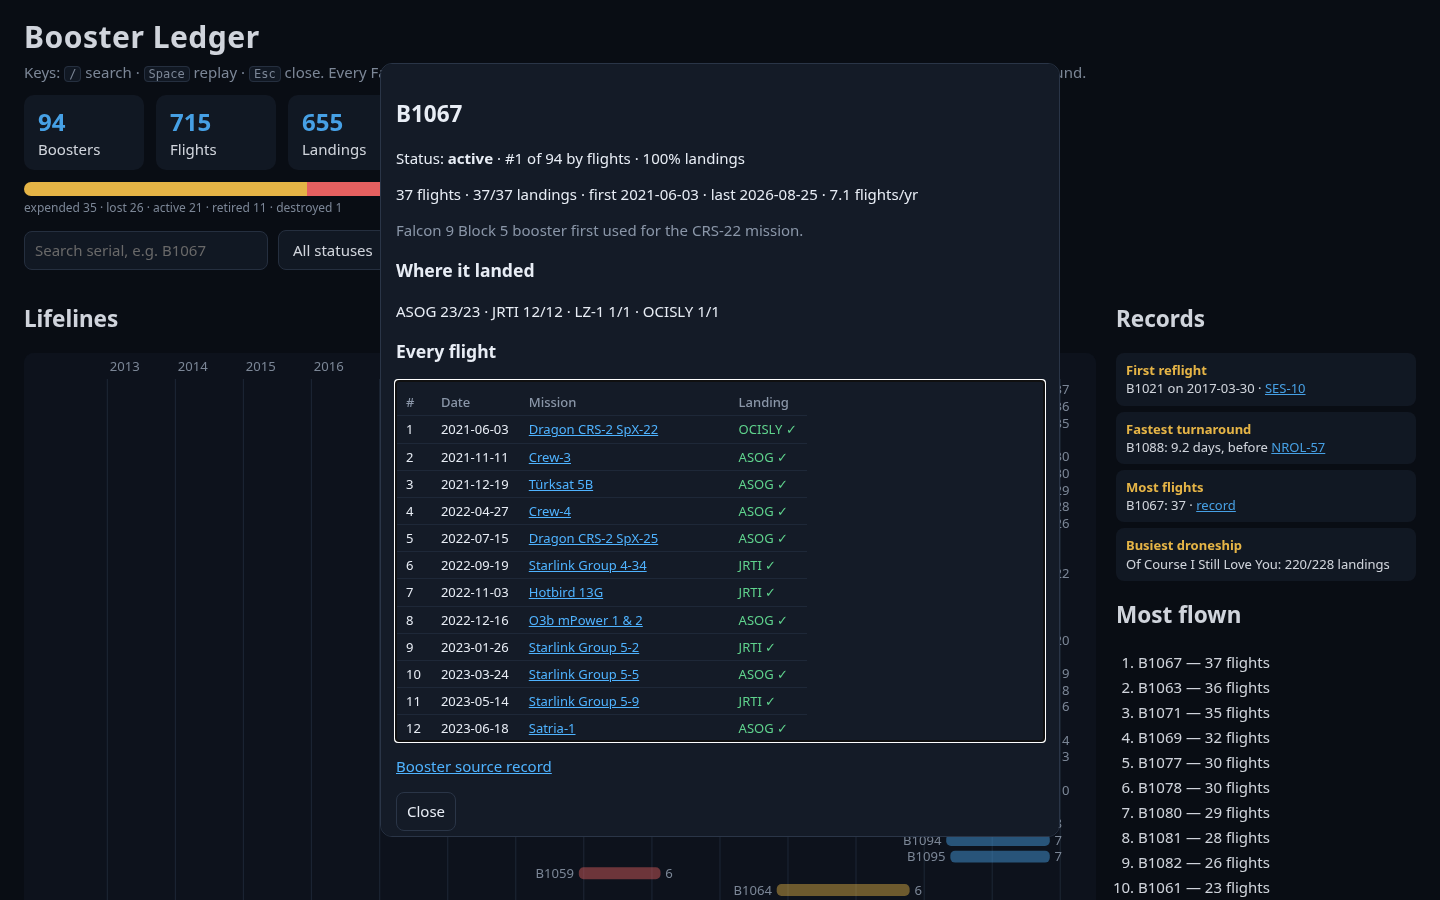
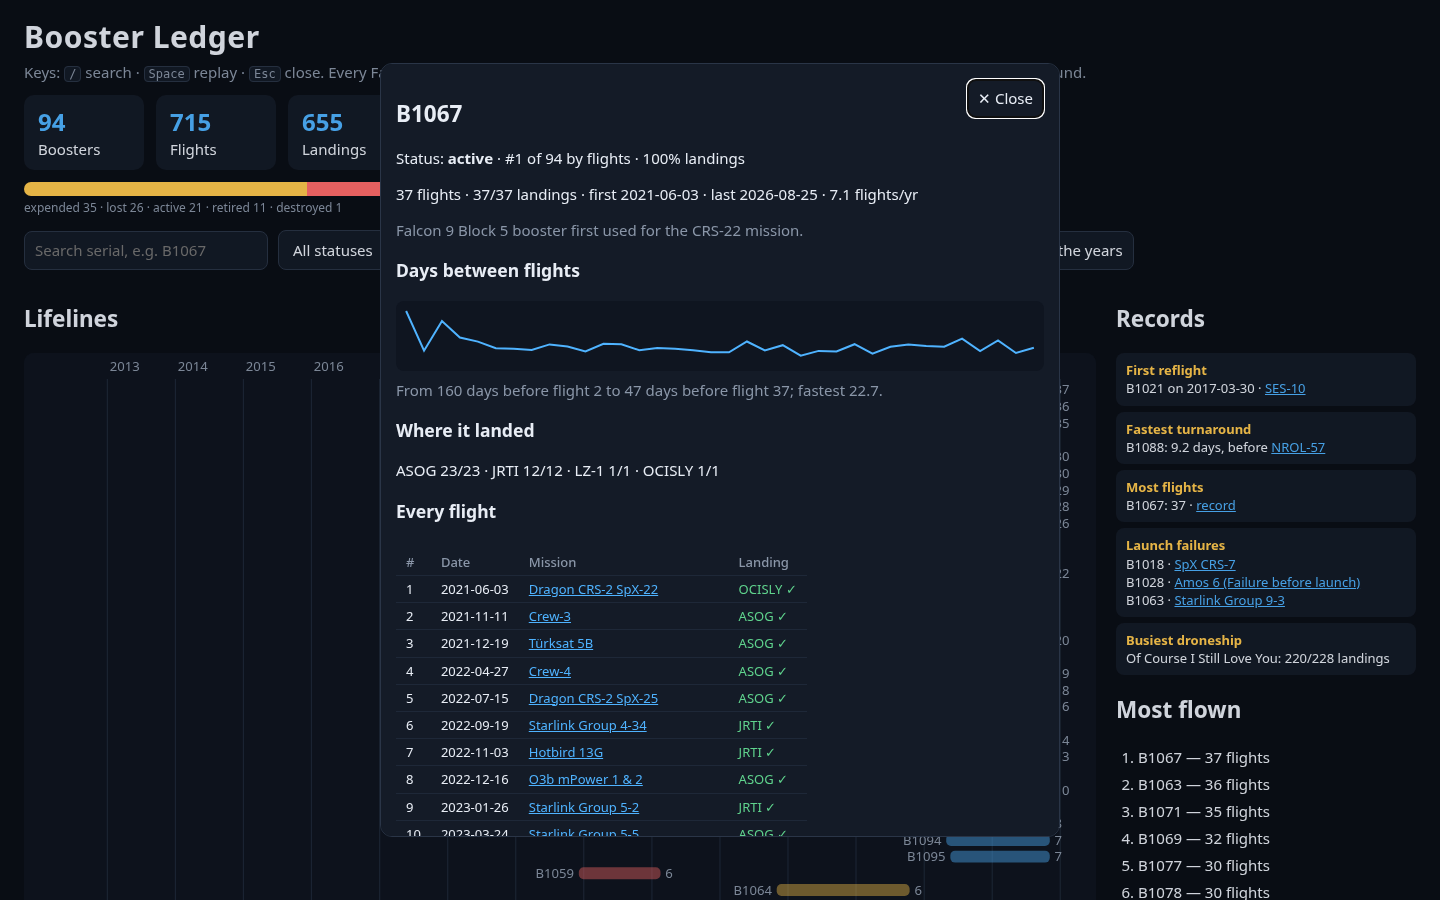
Round 15: README rewrite, phone-sized chart rendering (400-unit viewBox + 'YY labels), larger drawer on big screens, regenerated 15 screenshots at 1440/1920/390 + demo.gif (OCR-clean); 132 unit / 72 e2e

diff --git a/src/charts.js b/src/charts.js
@@ -2,44 +2,47 @@
 import * as L from './ledger.js';
 export const esc = s => String(s ?? '').replace(/[&<>"']/g, c => ({ '&': '&amp;', '<': '&lt;', '>': '&gt;', '"': '&quot;', "'": '&#39;' }[c]));
 const ytd = (y, nowYear) => y === nowYear ? '*' : '';
-export function trendSVG(t, nowYear) {
-  const w = 640, h = 260, pad = 44, max = Math.max(...t.map(x => x.median));
+const yl = (y, short) => short ? "'" + String(y).slice(2) : String(y);
+export function trendSVG(t, nowYear, { w = 640 } = {}) {
+  const short = w < 500;
+  const h = 260, pad = 44, max = Math.max(...t.map(x => x.median));
   const x = i => pad + (w - pad * 2) * (t.length < 2 ? .5 : i / (t.length - 1)), y = v => h - 30 - (h - 60) * v / max;
   let g = '';
   for (let v = 0; v <= max; v += Math.ceil(max / 5 / 50) * 50 || 50) g += `<line x1="${pad}" x2="${w - pad}" y1="${y(v)}" y2="${y(v)}" stroke="#1e2838"/><text x="4" y="${y(v) + 4}" fill="#8a96a8" font-size="11">${v}d</text>`;
   g += `<polyline fill="none" stroke="#4fb3ff" stroke-width="3" points="${t.map((p, i) => `${x(i)},${y(p.median)}`).join(' ')}"/>`;
   g += `<polyline fill="none" stroke="#ffc94f" stroke-width="2" stroke-dasharray="5 4" points="${t.map((p, i) => `${x(i)},${y(p.min)}`).join(' ')}"/>`;
-  t.forEach((p, i) => g += `<g class="pt" data-y="${p.year}"><circle cx="${x(i)}" cy="${y(p.median)}" r="4" fill="#4fb3ff"><title>${p.year}: median ${p.median.toFixed(1)} d, fastest ${p.min.toFixed(1)} d, ${p.reflights} reflights</title></circle><text x="${x(i)}" y="${h - 10}" text-anchor="middle" fill="#8a96a8" font-size="11">${p.year}${ytd(p.year, nowYear)}</text><text x="${x(i)}" y="${y(p.median) - 8}" text-anchor="middle" fill="#e8edf5" font-size="11">${Math.round(p.median)}</text></g>`);
+  t.forEach((p, i) => g += `<g class="pt" data-y="${p.year}"><circle cx="${x(i)}" cy="${y(p.median)}" r="4" fill="#4fb3ff"><title>${p.year}: median ${p.median.toFixed(1)} d, fastest ${p.min.toFixed(1)} d, ${p.reflights} reflights</title></circle><text x="${x(i)}" y="${h - 10}" text-anchor="middle" fill="#8a96a8" font-size="11">${yl(p.year, short)}${ytd(p.year, nowYear)}</text><text x="${x(i)}" y="${y(p.median) - 8}" text-anchor="middle" fill="#e8edf5" font-size="11">${Math.round(p.median)}</text></g>`);
   g += `<text x="${w - pad}" y="16" text-anchor="end" fill="#4fb3ff" font-size="12">— median</text><text x="${w - pad}" y="32" text-anchor="end" fill="#ffc94f" font-size="12">- - fastest</text>`;
   return { viewBox: `0 0 ${w} ${h}`, svg: g };
 }
 export const TCOL = { ASDS: '#4fb3ff', RTLS: '#5fd38d', Ocean: '#b48cff', EXP: '#ffc94f', Other: '#8a96a8' };
-export function yearsSVG(t, nowYear) {
-  const w = 640, h = 260, pad = 44, max = Math.max(...t.map(x => x.total)), bw = (w - pad * 2) / t.length;
+export function yearsSVG(t, nowYear, { w = 640 } = {}) {
+  const short = w < 500;
+  const h = 260, pad = 44, max = Math.max(...t.map(x => x.total)), bw = (w - pad * 2) / t.length;
   const y = v => h - 30 - (h - 60) * v / max;
   let g = '';
   t.forEach((p, i) => {
     let acc = 0; const x = pad + i * bw + bw * .15;
     for (const k of ['ASDS', 'RTLS', 'Ocean', 'EXP', 'Other']) { if (!p[k]) continue; g += `<rect class="seg" data-y="${p.year}" data-k="${k}" x="${x}" y="${y(acc + p[k])}" width="${bw * .7}" height="${y(acc) - y(acc + p[k])}" fill="${TCOL[k]}"><title>${p.year} ${k}: ${p[k]}</title></rect>`; acc += p[k]; }
-    g += `<text x="${x + bw * .35}" y="${y(p.total) - 5}" text-anchor="middle" fill="#e8edf5" font-size="11" class="tot" data-y="${p.year}">${p.total}</text><text x="${x + bw * .35}" y="${h - 10}" text-anchor="middle" fill="#8a96a8" font-size="11">${p.year}${ytd(p.year, nowYear)}</text>`;
+    g += `<text x="${x + bw * .35}" y="${y(p.total) - 5}" text-anchor="middle" fill="#e8edf5" font-size="11" class="tot" data-y="${p.year}">${p.total}</text><text x="${x + bw * .35}" y="${h - 10}" text-anchor="middle" fill="#8a96a8" font-size="11">${yl(p.year, short)}${ytd(p.year, nowYear)}</text>`;
   });
-  g += Object.entries(TCOL).slice(0, 4).map(([k, c], i) => `<rect x="${pad + i * 80}" y="8" width="10" height="10" fill="${c}"/><text x="${pad + 14 + i * 80}" y="17" fill="#8a96a8" font-size="11">${k}</text>`).join('');
+  g += Object.entries(TCOL).slice(0, 4).map(([k, c], i) => `<rect x="${pad + i * (short ? 64 : 80)}" y="8" width="10" height="10" fill="${c}"/><text x="${pad + 14 + i * (short ? 64 : 80)}" y="17" fill="#8a96a8" font-size="11">${k}</text>`).join('');
   return { viewBox: `0 0 ${w} ${h}`, svg: g };
 }
-export function cmpSVG(A, B2, sa, sb) {
-  const pts = [...A, ...B2]; if (!pts.length) return null;
-  const w = 640, h = 220, pad = 40, t0 = Math.min(...pts.map(p => p.t)), t1 = Math.max(...pts.map(p => p.t)), m = Math.max(...pts.map(p => p.n));
+export function cmpSVG(A, B2, sa, sb, { w = 640 } = {}) {
+  const pts = [...A, ...B2]; if (!pts.length) return null; const short = w < 500;
+  const h = 220, pad = 40, t0 = Math.min(...pts.map(p => p.t)), t1 = Math.max(...pts.map(p => p.t)), m = Math.max(...pts.map(p => p.n));
   const x = p => pad + (w - pad * 2) * (p.t - t0) / ((t1 - t0) || 1), y = p => h - 28 - (h - 50) * p.n / m;
   const stepped = P => P.flatMap((p, i) => i ? [{ t: p.t, n: P[i - 1].n }, p] : [p]);
   let g = '';
-  for (let yy = new Date(t0).getUTCFullYear() + 1; yy <= new Date(t1).getUTCFullYear(); yy++) { const xx = x({ t: Date.UTC(yy, 0) }); g += `<line x1="${xx}" x2="${xx}" y1="10" y2="${h - 24}" stroke="#1e2838"/><text x="${xx + 2}" y="${h - 8}" fill="#8a96a8" font-size="11">${yy}</text>`; }
+  for (let yy = new Date(t0).getUTCFullYear() + 1; yy <= new Date(t1).getUTCFullYear(); yy++) { const xx = x({ t: Date.UTC(yy, 0) }); g += `<line x1="${xx}" x2="${xx}" y1="10" y2="${h - 24}" stroke="#1e2838"/><text x="${xx + 2}" y="${h - 8}" fill="#8a96a8" font-size="11">${yl(yy, short)}</text>`; }
   g += `<path d="${L.linePath(stepped(A), x, y)}" fill="none" stroke="#4fb3ff" stroke-width="2.5"/><path d="${L.linePath(stepped(B2), x, y)}" fill="none" stroke="#ffc94f" stroke-width="2.5"/>`;
   g += `<text x="${pad}" y="18" fill="#4fb3ff" font-size="12">${esc(sa)} · ${A.length}</text><text x="${pad + 110}" y="18" fill="#ffc94f" font-size="12">${esc(sb)} · ${B2.length}</text><text x="${w - pad}" y="18" text-anchor="end" fill="#8a96a8" font-size="11">cumulative flights</text>`;
   return { viewBox: `0 0 ${w} ${h}`, svg: g };
 }
-export function progSVG(P, tEnd) {
+export function progSVG(P, tEnd, { w = 640 } = {}) {
   if (!P.length) return null;
-  const w = 640, h = 240, pad = 40, t0 = Date.parse(P[0].net), t1 = tEnd, m = P.at(-1).n;
+  const h = 240, pad = 40, t0 = Date.parse(P[0].net), t1 = tEnd, m = P.at(-1).n;
   const x = f => pad + (w - pad * 2) * (Date.parse(f.net) - t0) / (t1 - t0), y = n => h - 28 - (h - 50) * n / m;
   let g = '';
   for (let yy = new Date(t0).getUTCFullYear() + 1; yy <= new Date(t1).getUTCFullYear(); yy++) { const xx = pad + (w - pad * 2) * (Date.UTC(yy, 0) - t0) / (t1 - t0); g += `<line x1="${xx}" x2="${xx}" y1="10" y2="${h - 24}" stroke="#1e2838"/><text x="${xx + 2}" y="${h - 8}" fill="#8a96a8" font-size="11">${String(yy).slice(2)}</text>`; }

diff --git a/src/app.js b/src/app.js
@@ -56,17 +56,18 @@ function recordsPanel() {
     r.busiestDroneship && `<div id="rec-ds"><b>Busiest droneship</b><br>${esc(r.busiestDroneship.name)}: ${r.busiestDroneship.success}/${r.busiestDroneship.attempts} landings</div>`,
   ].filter(Boolean).join('');
 }
-function trend() { const r = C.trendSVG(L.turnaroundByYear(FL), NOWY); $('trendsvg').setAttribute('viewBox', r.viewBox); $('trendsvg').innerHTML = r.svg; }
-function cmpChart(sa, sb) { const r = C.cmpSVG(L.cumulative(FL, sa), L.cumulative(FL, sb), sa, sb); if (!r) return; $('cmpsvg').setAttribute('viewBox', r.viewBox); $('cmpsvg').innerHTML = r.svg; }
+const CW = () => ({ w: innerWidth < 700 ? 400 : 640 });
+function trend() { const r = C.trendSVG(L.turnaroundByYear(FL), NOWY, CW()); $('trendsvg').setAttribute('viewBox', r.viewBox); $('trendsvg').innerHTML = r.svg; }
+function cmpChart(sa, sb) { const r = C.cmpSVG(L.cumulative(FL, sa), L.cumulative(FL, sb), sa, sb, CW()); if (!r) return; $('cmpsvg').setAttribute('viewBox', r.viewBox); $('cmpsvg').innerHTML = r.svg; }
 function cmp() {
   const [a, b] = L.compare(all, FL, $('ca').value, $('cb').value); if (!a || !b) return; cmpChart(a.serial, b.serial);
   const rows = [['Status', 'status'], ['Flights', 'flights'], ['Landings', 'landings'], ['First flight', 'first', d10], ['Last flight', 'last', d10],
     ['Median turnaround', 'medianGap', v => v == null ? '—' : v.toFixed(1) + ' d'], ['Fastest turnaround', 'fastestGap', v => v == null ? '—' : v.toFixed(1) + ' d'], ['Most-used landing spot', 'topSpot']];
   $('ctable').innerHTML = `<tr><th></th><th>${esc(a.serial)}</th><th>${esc(b.serial)}</th></tr>` + rows.map(([k, f, fmt = v => v ?? '—']) => `<tr data-k="${f}"><th>${k}</th><td>${esc(fmt(a[f]))}</td><td>${esc(fmt(b[f]))}</td></tr>`).join('');
 }
-function years() { const r = C.yearsSVG(L.flightsByYear(FL), NOWY); $('yearsvg').setAttribute('viewBox', r.viewBox); $('yearsvg').innerHTML = r.svg; }
+function years() { const r = C.yearsSVG(L.flightsByYear(FL), NOWY, CW()); $('yearsvg').setAttribute('viewBox', r.viewBox); $('yearsvg').innerHTML = r.svg; }
 function prog() {
-  const P = L.recordProgression(FL), r = C.progSVG(P, Date.parse(fsnap.fetched_at)); if (!r) return;
+  const P = L.recordProgression(FL), r = C.progSVG(P, Date.parse(fsnap.fetched_at), CW()); if (!r) return;
   $('progsvg').setAttribute('viewBox', r.viewBox); $('progsvg').innerHTML = r.svg;
   $('progsvg').querySelectorAll('circle').forEach(c => c.onclick = () => open(c.dataset.s));
   const last = P.at(-1), a = f => `<a href="${safeUrl(f.source)}" target="_blank" rel="noopener">${esc(f.mission)}</a>`;
@@ -122,7 +123,7 @@ document.addEventListener('keydown', e => {
 });
 $('drawer').addEventListener('close', () => history.replaceState(null, '', location.pathname + location.search));
 addEventListener('hashchange', () => { const s = L.serialFromHash(location.hash); if (s) open(s); });
-let rz; addEventListener('resize', () => { clearTimeout(rz); rz = setTimeout(render, 120); });
+let rz, lastCW = CW().w; addEventListener('resize', () => { clearTimeout(rz); rz = setTimeout(() => { render(); if (CW().w !== lastCW) { lastCW = CW().w; trend(); years(); prog(); cmp(); } }, 120); });
 $('src').innerHTML = `Data: <a href="https://thespacedevs.com/llapi">The Space Devs Launch Library 2</a> — boosters snapshot ${d10(snap.fetched_at)}, flights snapshot ${d10(fsnap.fetched_at)}. Unofficial; not affiliated with SpaceX.`;
 axis(); render(); recordsPanel(); trend(); years(); spots(); pads(); prog(); cmp();
 const lw = $('lanewrap'); if (lw.scrollWidth > lw.clientWidth) lw.scrollLeft = lw.scrollWidth; // newest years in view on narrow screens

diff --git a/test/charts.test.js b/test/charts.test.js
@@ -13,3 +13,8 @@ describe('chart builders', () => {
   it('spark: points stay inside the box', () => { const p = C.sparkPoints([{ days: 1 }, { days: 50 }, { days: 9 }]); for (const xy of p.split(' ')) { const [x, y] = xy.split(',').map(Number); expect(x).toBeGreaterThanOrEqual(0); expect(x).toBeLessThanOrEqual(640); expect(y).toBeGreaterThanOrEqual(0); expect(y).toBeLessThanOrEqual(70); } });
   it('no NaN anywhere', () => { for (const s of [C.trendSVG(L.turnaroundByYear(FL), 2026).svg, C.yearsSVG(L.flightsByYear(FL), 2026).svg, C.progSVG(L.recordProgression(FL), Date.now()).svg]) expect(s).not.toMatch(/NaN|undefined|Infinity/); });
 });
+describe('narrow charts', () => {
+  it('short year labels when narrow', () => { const s = C.yearsSVG(L.flightsByYear(FL), 2026, { w: 400 }).svg; expect(s).toContain("'25<"); expect(s).toContain('viewBox' in C.yearsSVG(L.flightsByYear(FL), 2026, { w: 400 }) ? '' : ''); });
+  it('viewBox follows width', () => expect(C.trendSVG(L.turnaroundByYear(FL), 2026, { w: 400 }).viewBox).toBe('0 0 400 260'));
+  it('wide default keeps full years', () => expect(C.trendSVG(L.turnaroundByYear(FL), 2026).svg).toContain('>2019<'));
+});

diff --git a/src/style.css b/src/style.css
@@ -34,3 +34,5 @@ body.tv>*:not(#tv){display:none!important}body.tv{padding:0;overflow:hidden}#tv{
 [hidden]{display:none!important}
 @media print{body{background:#fff;color:#000}.controls,#tvlink,dialog,#share,#csv{display:none!important}#lanewrap{max-height:none;overflow:visible}main{grid-template-columns:1fr}svg{background:#fff!important}.stat,#records div{background:#fff;border:1px solid #ccc}a{color:#000}}
 @media (prefers-reduced-motion:reduce){*{transition:none!important;animation:none!important}}
+@media (max-width:700px){#panels svg text{font-size:12px}}
+@media (min-width:1600px){dialog{max-width:860px;font-size:16px}body{font-size:16px}}

diff --git a/README.md b/README.md
@@ -1,19 +1,37 @@
 # Booster Ledger
 
-Every Falcon first stage with a B10xx serial on one screen: how many times it flew, how it ended, and how fast it turned around.
+Every Falcon first stage with a B10xx serial on one screen: how many times it flew, how it ended, how fast it turned around, and where it landed.
 
 ![demo](screenshots/demo.gif)
 
-- **Lifelines:** one bar per booster from its first to its last flight. Color shows status (blue active, gold expended, red lost or destroyed). Opacity shows flight count.
-- **Most flown** and **fastest turnaround** leaderboards. Click any booster to see its record and a link to the source entry.
-- **Replay the years:** watch the fleet grow and reuse take off year by year.
+![wall](screenshots/wall-1440x900.png)
+
+## What's on the screen
+- **Lifelines:** one bar per booster, from its first flight to its last. Blue is active, gold expended, red lost or destroyed, and the number is its flight count. You can sort by most flown, first flight or newest, filter by status or to Falcon Heavy boosters, or search by serial.
+- **Replay the years** (Space): watch the fleet grow. The stats, bars and leaderboards show counts as of each year.
+- **Booster drawer** (click a bar or open `#B1067`): every flight with its mission, date, landing spot and source link, plus days between flights, where it landed, its rank and landing rate. Launch failures and Falcon Heavy flights are tagged.
+- **Records:** first reflight, fastest turnaround, most flights, every launch failure, and the busiest droneship. Each one links its source.
+- **Turnaround trend:** median and fastest days between reflights, by year.
+- **Flights per year** split by how the booster came home (droneship, back to land, ocean or expended).
+- **Reuse record progression:** the first booster to reach each flight count.
+- **Landing spots** and **launch pads and rockets** tables.
+- **Compare two boosters:** cumulative-flights chart and a side-by-side table.
+- **Link** copies a URL with the current filters and comparison, and **CSV** downloads the boosters shown.
+- **TV mode** (`?mode=tv`, optional `&every=8000`): big-type cards that cycle through the 10 most-flown boosters. Use the arrow keys to step and Esc to exit.
 
 ## Data
-Public data only, from [The Space Devs Launch Library 2 API](https://thespacedevs.com/llapi) (`/2.3.0/launchers/`). The snapshot is committed at `src/boosters.json` with its `fetched_at` time, and each booster links its source record. Run `npm run refresh` to re-pull it (the anonymous API allows about 15 requests an hour). This project isn't affiliated with SpaceX. The server only serves files from `src/`.
+Public data only, from [The Space Devs Launch Library 2 API](https://thespacedevs.com/llapi). Both snapshots are committed in `src/` with their fetch times, and every booster and flight links its LL2 record. See [docs/DATA.md](docs/DATA.md) for fields and caveats, such as AMOS-6 counting as a flight. `validate.mjs` checks that the two snapshots agree for every booster, and `npm run refresh` refuses to save a pull that fails those checks. This project isn't affiliated with SpaceX. The server only serves files from `src/`, and the page makes no outside requests at runtime.
 
-## Run
+## Run (2 minutes)
 ```
-npm i && npm start            # http://127.0.0.1:4477
-npm test                      # unit tests
-npx playwright test           # browser tests (set PW_CHROME to a local chromium if needed)
+npm i
+npm start                        # http://127.0.0.1:4477
+npm test                         # unit + data-consistency tests
+npx playwright test              # browser tests: features, DOM numbers vs raw JSON, a11y (axe), security
+# If Playwright's bundled browser is missing, point it at a local one:
+# PW_CHROME=/path/to/chrome-headless-shell npx playwright test
+npm run refresh                  # re-pull both snapshots (~10 requests; anonymous LL2 allows ~15/hour)
 ```
+
+## Layout
+`src/ledger.js` holds pure data functions, `src/charts.js` pure SVG builders, `src/app.js` the DOM wiring and `server.js` a static server for `src/` only. `scripts-flights.mjs` derives `flights.json` from the raw API pages, and `validate.mjs` does the cross-checks. Tests live in `test/` (vitest) and `e2e/` (Playwright).
